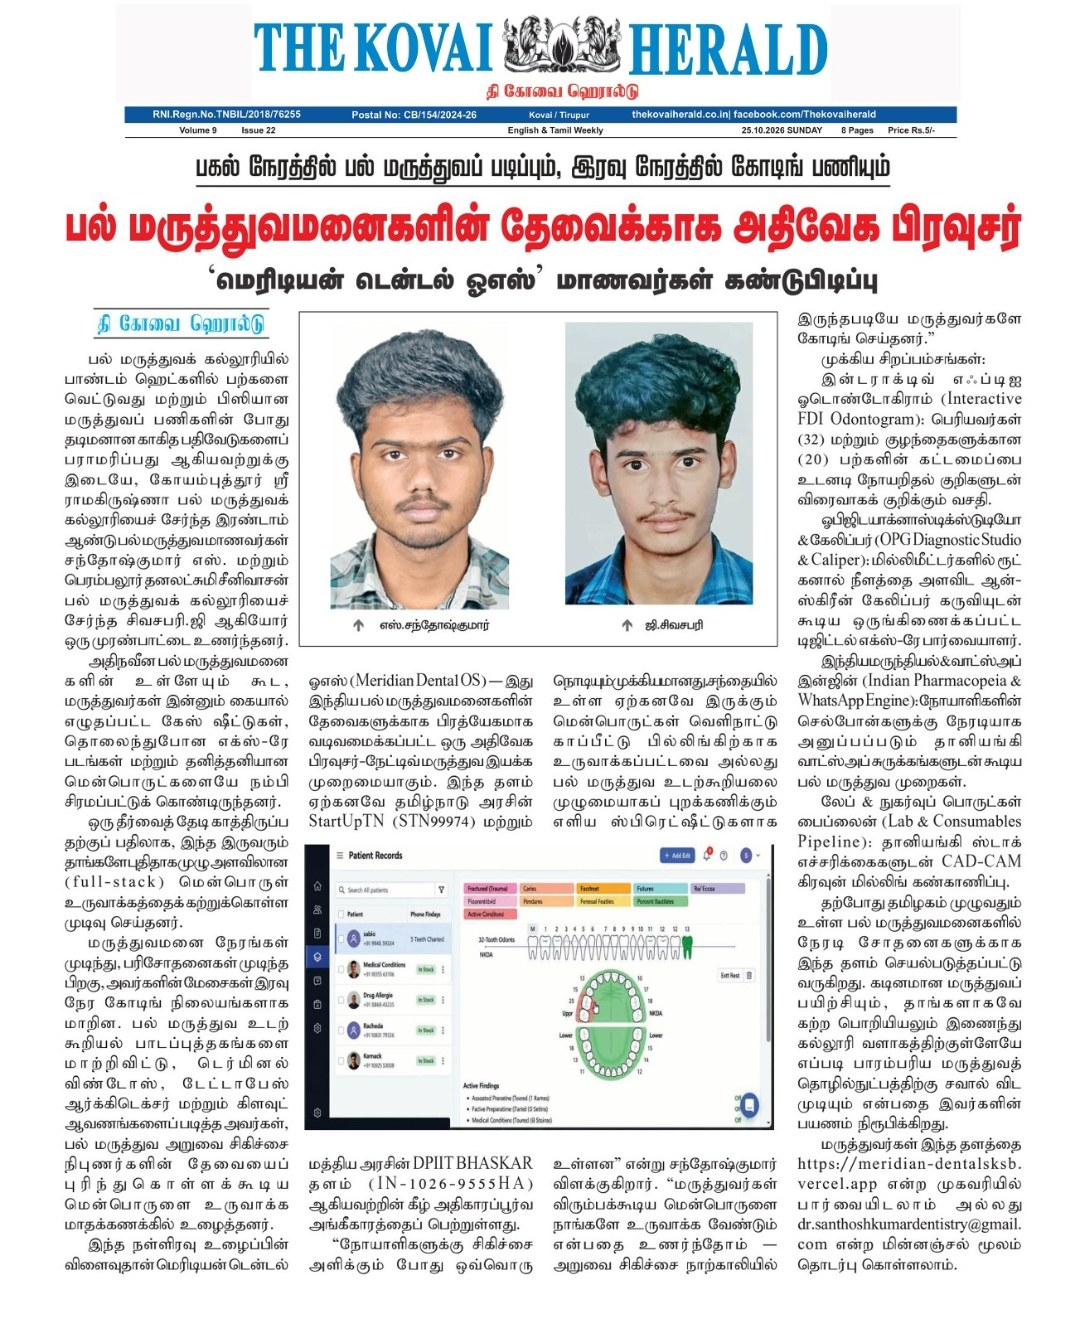
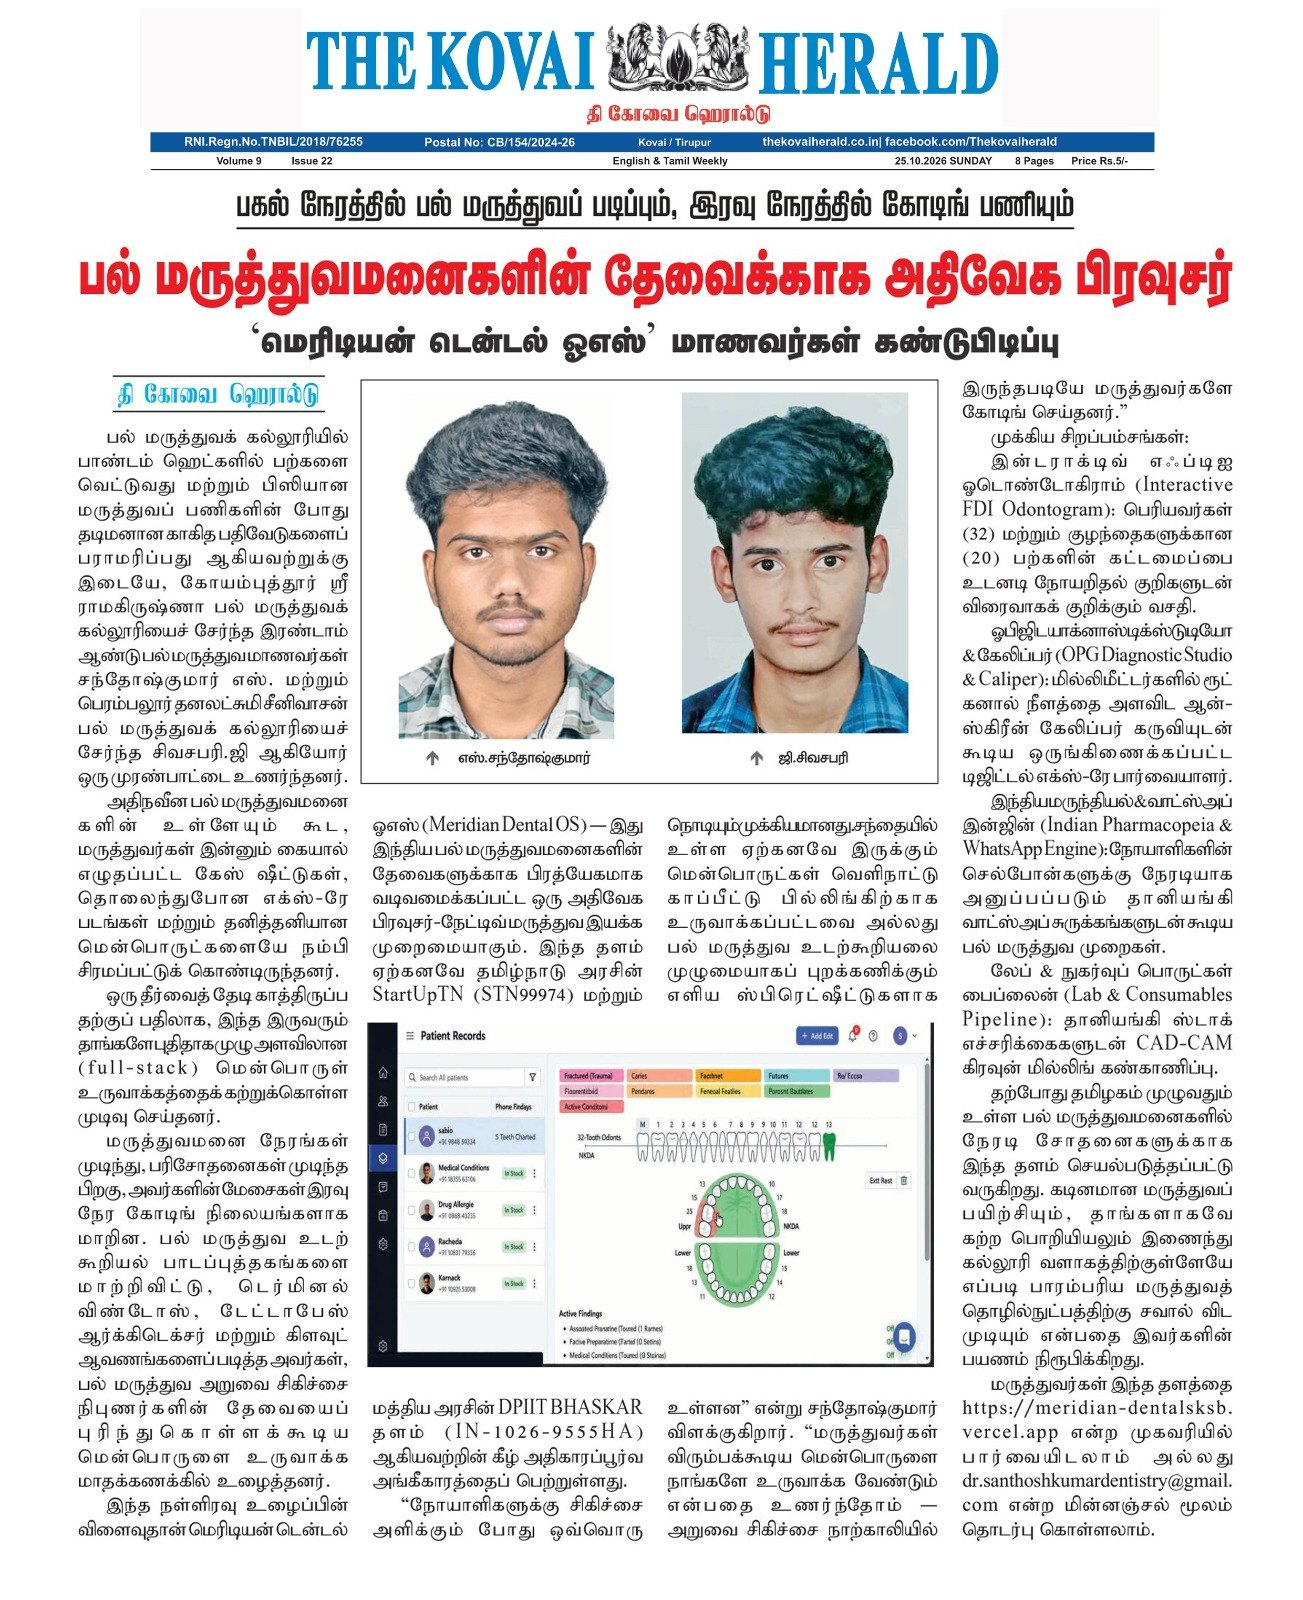
Landing page: use the sharper Kovai Herald clipping
Claude-Session: https://claude.ai/code/session_01R42ZqSV9xcdg4Crsv4A3W4

diff --git a/src/components/landingpage.jsx b/src/components/landingpage.jsx
@@ -823,7 +823,7 @@ export default function LandingPage({
         <p className="mt-2 text-base text-slate-600 max-w-xl">MeriDent was featured in The Kovai Herald, a Coimbatore weekly, on 25 October 2026.</p>
         <figure className="mt-8 grid grid-cols-1 md:grid-cols-5 gap-6 items-start">
           <a href="/press/kovai-herald-2026-10-25.jpg" target="_blank" rel="noopener noreferrer" className="md:col-span-3 block overflow-hidden rounded-[22px] border border-slate-200 bg-white shadow-sm hover:opacity-95" aria-label="Open the full Kovai Herald page">
-            <img src="/press/kovai-herald-2026-10-25.jpg" alt="The Kovai Herald, 25 October 2026: a Tamil news story about two dental students from Tamil Nadu who built MeriDent, with photos of both founders and a screenshot of the patient records screen" width="1080" height="1322" loading="lazy" className="block w-full h-auto" />
+            <img src="/press/kovai-herald-2026-10-25.jpg" alt="The Kovai Herald, 25 October 2026: a Tamil news story about two dental students from Tamil Nadu who built MeriDent, with photos of both founders and a screenshot of the patient records screen" width="1303" height="1600" loading="lazy" className="block w-full h-auto" />
           </a>
           <figcaption className="md:col-span-2 rounded-[22px] border border-slate-200 bg-slate-50 p-6">
             <p className="text-sm font-semibold text-ink">The Kovai Herald, 25 October 2026</p>
